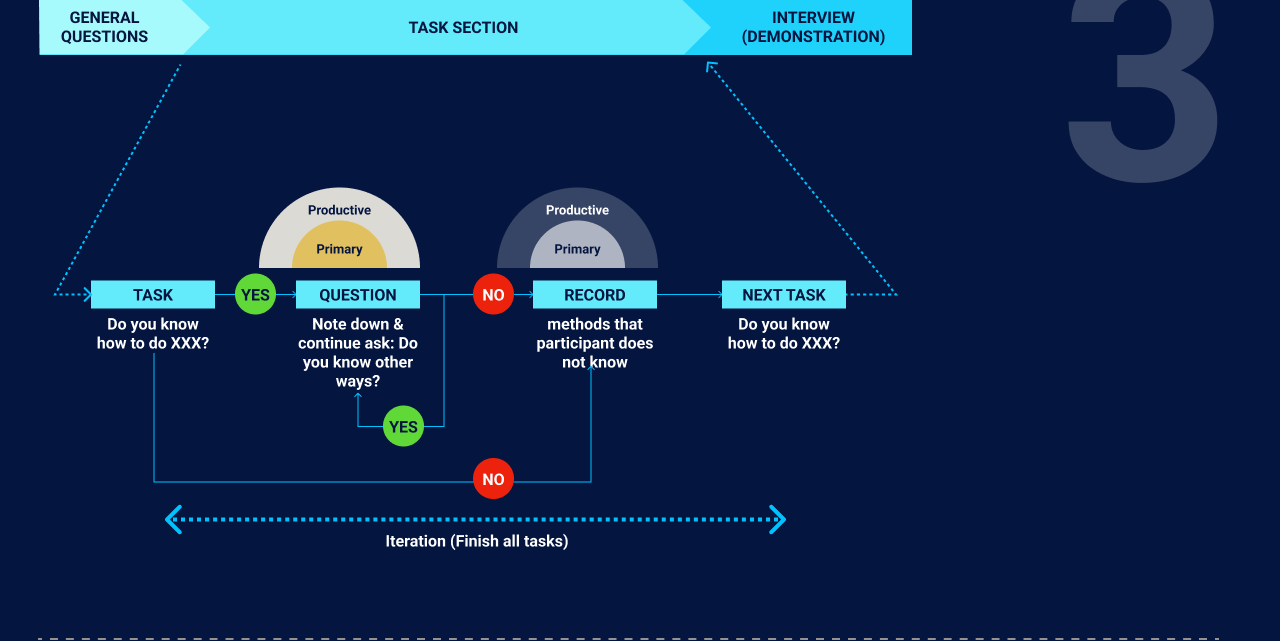
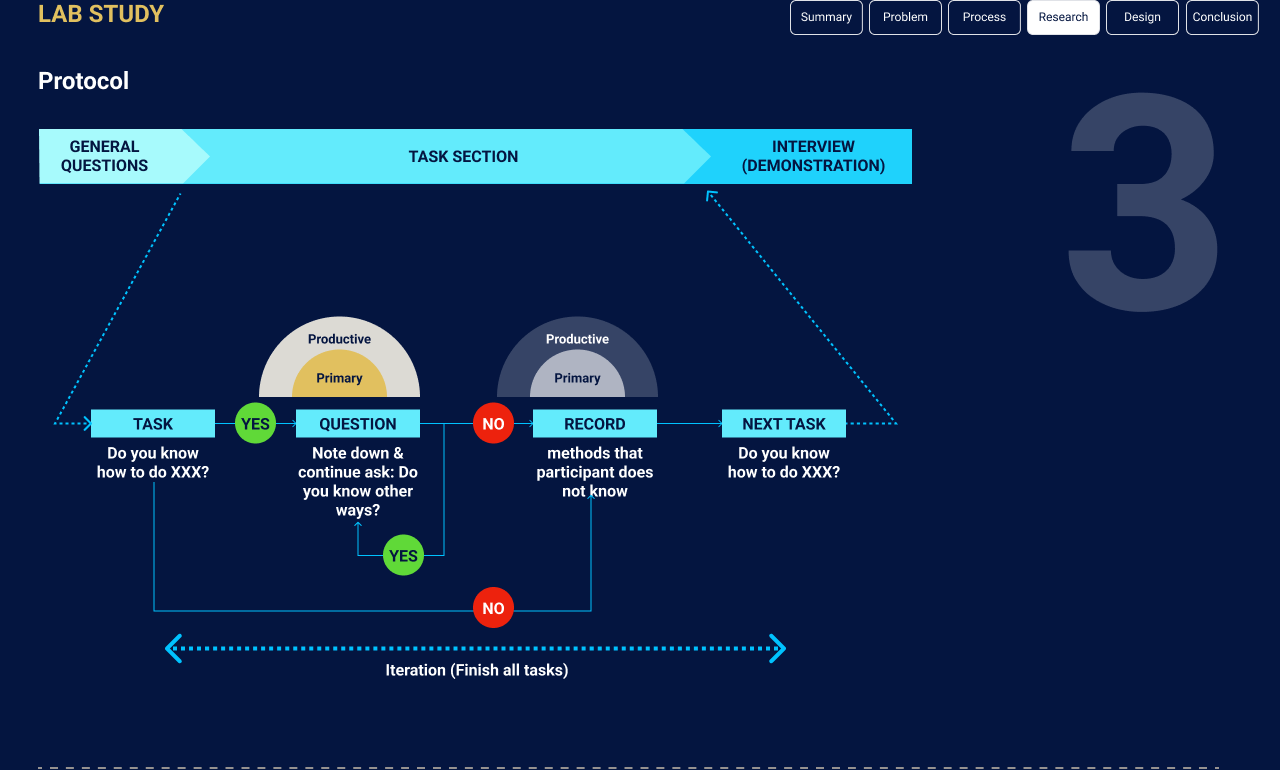
Frame 44: fix Protocol PNG to include full decorative '3'
Recropped from y=30 (was y=159) so the large faint '3' watermark is fully
captured. Removed redundant LAB STUDY and Protocol heading HTML divs since
they are now baked into the PNG.

diff --git a/portfolio.html b/portfolio.html
@@ -2240,12 +2240,8 @@
     <div class="f9-tab" data-go="frame47" style="left:86.7969%; top:0.5315%; width:5.7031%; height:0.6198%;">Design</div>
     <div class="f9-tab" data-go="frame49" style="left:93.0469%; top:0.5315%; width:5.7031%; height:0.6198%;">Conclusion</div>
 
-    <!-- Section 1: PROTOCOL -->
-    <div style="position:absolute; left:2.9688%; top:0.5315%; color:#e1c05f; font-weight:700; font-size:1.875cqw; white-space:nowrap;">LAB STUDY</div>
-    <div style="position:absolute; left:2.9688%; top:1.7173%; color:#fff; font-weight:700; font-size:1.875cqw;">Protocol</div>
-
-    <!-- Protocol illustration (integrated PNG cropped from Figma frame) -->
-    <img src="f44_protocol.png" style="position:absolute; left:0; top:2.8169%; width:100%;" alt="Protocol illustration"/>
+    <!-- Protocol illustration (integrated PNG — includes LAB STUDY heading, Protocol heading, "3", flow diagram) -->
+    <img src="f44_protocol.png" style="position:absolute; left:0; top:0.5315%; width:100%;" alt="Protocol illustration"/>
 
     <!-- ── Section 2: RESULTS ──────────────────────────────────── -->
     <div style="position:absolute; left:2.9688%; top:15.6339%; color:#fff; font-weight:700; font-size:1.875cqw;">Results</div>
